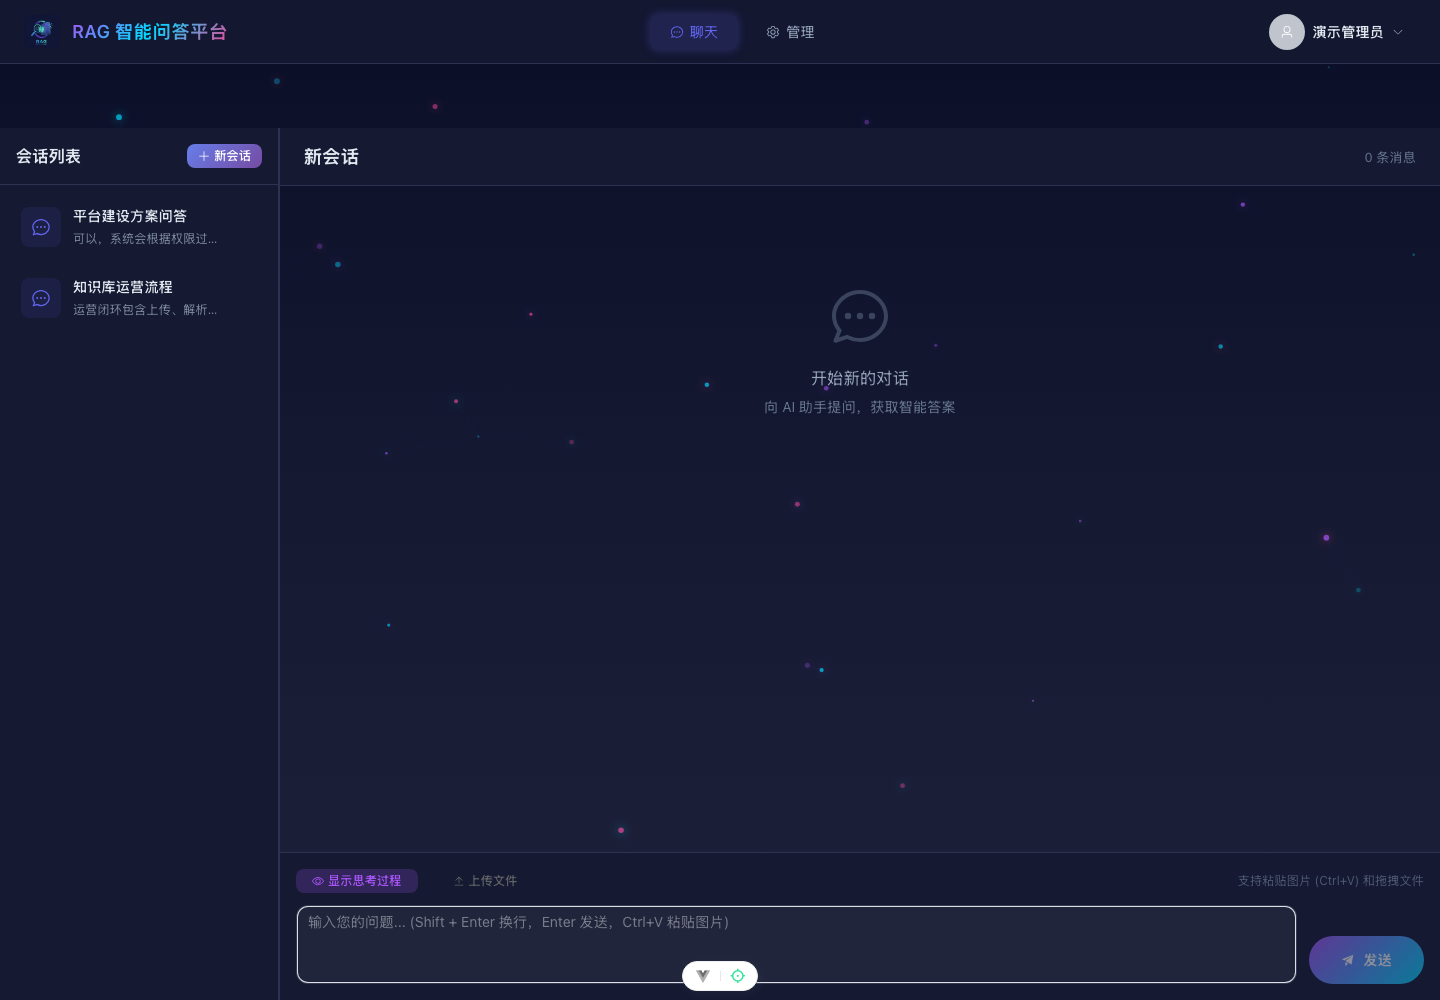
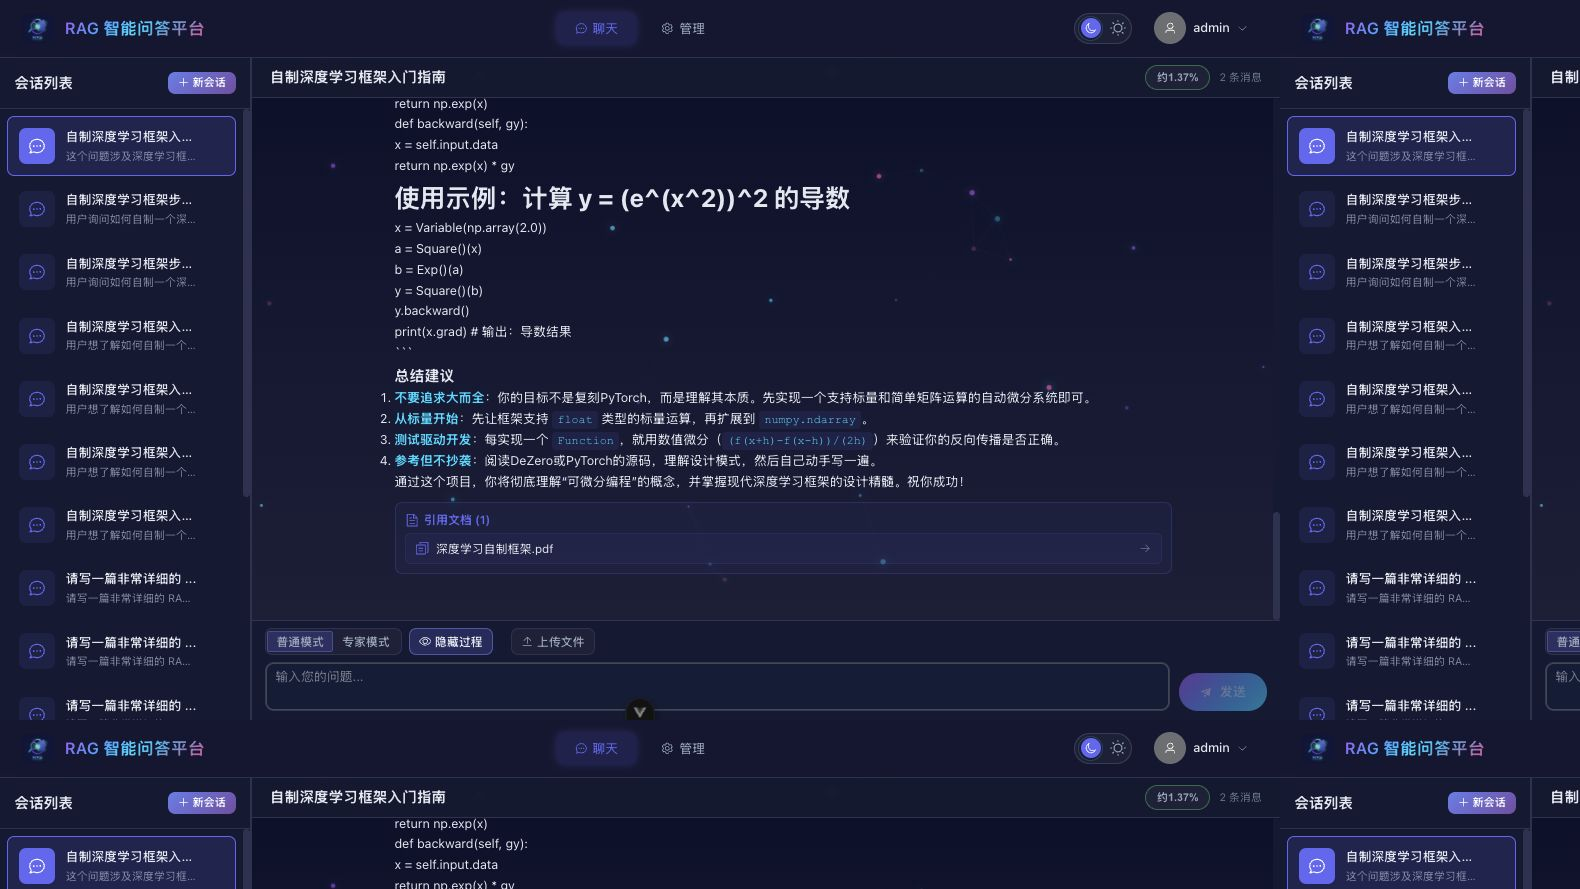
更新 README 截图并完善 LangGraph 过程展示

diff --git a/web/plantform_vue/src/utils/agentProcess.js b/web/plantform_vue/src/utils/agentProcess.js
@@ -12,10 +12,7 @@ const BLOCKED_PROCESS_WORDS = [
   ['sta', 'ck'],
   ['tra', 'ce'],
   ['top', 'ic='],
-  ['kaf', 'ka'],
-  ['接', '口'],
-  ['代', '码'],
-  ['修', '改']
+  ['kaf', 'ka']
 ].map((parts) => parts.join(''))
 const PROCESS_MARKER_ONLY_PATTERN = /^(thought|action|action input|observation|final answer|finalanswer|思考|操作|观测|输出|:|：)$/i
 
@@ -204,7 +201,7 @@ const isGeneratedSupervisorProcess = (process) => {
 
 export const getSupervisorProcesses = (message) => {
   return (message?.agentProcesses || [])
-    .filter((process) => process.scope === 'supervisor')
+    .filter((process) => ['supervisor', 'single'].includes(process.scope))
     .filter((process) => !isGeneratedSupervisorProcess(process))
     .sort((a, b) => a.stepIndex - b.stepIndex)
 }

diff --git a/web/plantform_vue/vite.config.js b/web/plantform_vue/vite.config.js
@@ -10,6 +10,10 @@ export default defineConfig({
     vue(),
     vueDevTools(),
   ],
+  server: {
+    host: '127.0.0.1',
+    port: 5173,
+  },
   resolve: {
     alias: {
       '@': fileURLToPath(new URL('./src', import.meta.url))

diff --git a/internal/agent/langgraph_agent.py b/internal/agent/langgraph_agent.py
@@ -73,6 +73,57 @@ class StreamingCallbackHandler(BaseCallbackHandler):
         self.collected_tokens = []
 
 
+class FinalAnswerStreamingCallbackHandler(BaseCallbackHandler):
+    """只把 Final Answer 后的内容流给前端，前面的过程内容只收集不进正文。"""
+
+    def __init__(self, callback: Optional[Callable] = None):
+        self.callback = callback
+        self.collected_tokens = []
+        self.answer_started = False
+        self.strip_leading_answer_space = False
+        self.pending = ""
+        self.marker_pattern = re.compile(r"(\*\*)?\s*Final Answer\s*:\s*(\*\*)?")
+
+    def on_llm_new_token(self, token: str, **kwargs) -> None:
+        self.collected_tokens.append(token)
+        if self.answer_started:
+            if self.strip_leading_answer_space:
+                token = token.lstrip()
+                if not token:
+                    return
+                self.strip_leading_answer_space = False
+            if self.callback:
+                self.callback("llm_chunk", token)
+            return
+
+        self.pending += token
+        match = self.marker_pattern.search(self.pending)
+        if match:
+            self.answer_started = True
+            self.strip_leading_answer_space = True
+            answer_part = self.pending[match.end():].lstrip()
+            self.pending = ""
+            if answer_part and self.callback:
+                self.strip_leading_answer_space = False
+                self.callback("llm_chunk", answer_part)
+
+    def get_collected_text(self) -> str:
+        return "".join(self.collected_tokens)
+
+    def get_answer_text(self) -> str:
+        text = self.get_collected_text()
+        match = self.marker_pattern.search(text)
+        if match:
+            return text[match.end():].strip()
+        return text.strip()
+
+    def clear(self):
+        self.collected_tokens = []
+        self.answer_started = False
+        self.strip_leading_answer_space = False
+        self.pending = ""
+
+
 class LangGraphAgent:
     """
     LangGraph Agent - 基于状态图的智能代理
@@ -129,6 +180,7 @@ Thought:{agent_scratchpad}"""
         
         # 流式回调处理器
         self.streaming_handler = StreamingCallbackHandler(callback)
+        self.final_answer_streaming_handler = FinalAnswerStreamingCallbackHandler(callback)
         
         # 转换工具
         self.tools = self._convert_tools(tools)
@@ -141,6 +193,21 @@ Thought:{agent_scratchpad}"""
         # 构建状态图
         self.graph = self._build_graph()
         self.app = self.graph.compile()
+
+    def _emit_single_agent_process(self, phase: str, content: Any, step_index: int) -> None:
+        if not self.callback:
+            return
+        text = str(content or "").strip()
+        if not text:
+            return
+        self.callback("agent_process", {
+            "scope": "single",
+            "agent_key": "langgraph",
+            "agent_name": "AI 助手",
+            "phase": phase,
+            "content": text,
+            "step_index": step_index,
+        })
     
     def _convert_tools(self, tools: Dict[str, Callable]) -> List[Tool]:
         """转换工具为 LangChain Tool 格式"""
@@ -396,6 +463,21 @@ Thought:{agent_scratchpad}"""
         """调用 LLM 并只返回完整文本，不向前端发送 token。"""
         response = await self.llm.ainvoke(prompt)
         return response.content if hasattr(response, 'content') else str(response)
+
+    async def _stream_final_answer_call(self, prompt: str) -> str:
+        """流式调用最终汇总，只把 Final Answer 后的正文发送给前端。"""
+        self.final_answer_streaming_handler.clear()
+        try:
+            response = await self.llm.ainvoke(
+                prompt,
+                config={"callbacks": [self.final_answer_streaming_handler]}
+            )
+            raw_text = response.content if hasattr(response, 'content') else str(response)
+            answer_text = self.final_answer_streaming_handler.get_answer_text()
+            return answer_text or raw_text
+        except Exception as e:
+            logger.error(f"最终答案流式 LLM 调用失败: {e}")
+            raise
     
     async def _think_node(self, state: AgentState) -> AgentState:
         """思考节点 - 调用 LLM 决定下一步行动（流式输出）"""
@@ -416,10 +498,10 @@ Thought:{agent_scratchpad}"""
                 agent_scratchpad=state["agent_scratchpad"]
             )
             
-            # 已有工具结果后，模型可能先输出草稿再输出 Final Answer。
-            # 这里先完整收集再清洗，避免草稿和控制标记进入正式回答。
+            # 已有工具结果后，模型可能先输出过程说明再输出 Final Answer。
+            # 这里只把 Final Answer 后的正文流到正式回答，前面的过程不进正文。
             if state.get("tool_results"):
-                llm_output = await self._plain_llm_call(prompt)
+                llm_output = await self._stream_final_answer_call(prompt)
             else:
                 llm_output = await self._stream_llm_call(prompt)
             
@@ -489,8 +571,10 @@ Thought:{agent_scratchpad}"""
             tool_input = pending_action["tool_input"]
             
             # 发送 action 事件
+            action_content = f"{tool_name}({tool_input})"
             if self.callback:
-                self.callback("action", f"{tool_name}({tool_input})")
+                self.callback("action", action_content)
+            self._emit_single_agent_process("action", action_content, state["current_step"] * 2 + 1)
             
             if tool_name not in self.tool_map:
                 return {
@@ -510,8 +594,10 @@ Thought:{agent_scratchpad}"""
                     result = await result
             
             # 发送 observation 事件
+            observation_content = str(result)[:500]
             if self.callback:
-                self.callback("observation", str(result)[:500])
+                self.callback("observation", observation_content)
+            self._emit_single_agent_process("observation", observation_content, state["current_step"] * 2 + 2)
             
             # 解析工具结果，提取文档信息
             documents = []
@@ -677,8 +763,8 @@ Thought:{agent_scratchpad}"""
 
 请直接给出最终答案，不需要再调用工具。"""
             
-            # 汇总阶段先拿完整输出，清洗后再发送给前端，避免草稿内容进入正式回答。
-            final_answer = await self._plain_llm_call(summary_prompt)
+            # 汇总阶段流式输出 Final Answer 后的正文，避免草稿内容进入正式回答。
+            final_answer = await self._stream_final_answer_call(summary_prompt)
             
             # 清理答案格式
             if "Final Answer:" in final_answer:

diff --git a/tests/test_langgraph_agent.py b/tests/test_langgraph_agent.py
@@ -9,24 +9,29 @@ from pkg.constants.constants import AGENT_TYPE, ENABLE_QA_CACHE
 
 
 class FakeLLMService:
-    def __init__(self, responses):
-        self.llm = FakeLLM(responses)
+    def __init__(self, responses, stream_by_char=False):
+        self.llm = FakeLLM(responses, stream_by_char=stream_by_char)
 
     def get_history(self):
         return []
 
 
 class FakeLLM:
-    def __init__(self, responses):
+    def __init__(self, responses, stream_by_char=False):
         self.responses = list(responses)
         self.prompts = []
+        self.stream_by_char = stream_by_char
 
     async def ainvoke(self, prompt, config=None):
         self.prompts.append(prompt)
         response = self.responses.pop(0) if self.responses else "Final Answer: 默认回答"
         for callback in (config or {}).get("callbacks", []):
             if hasattr(callback, "on_llm_new_token"):
-                callback.on_llm_new_token(response)
+                if self.stream_by_char:
+                    for char in response:
+                        callback.on_llm_new_token(char)
+                else:
+                    callback.on_llm_new_token(response)
         return AIMessage(content=response)
 
 
@@ -179,6 +184,66 @@ class LangGraphAgentSelfHealingTest(unittest.TestCase):
         self.assertEqual(["要自制一个深度学习框架，可以从自动微分、计算图、张量对象和优化器开始。"], final_answer_events)
         self.assertNotIn("Final Answer", final_answer_events[0])
         self.assertNotIn("我先整理", final_answer_events[0])
+
+    def test_final_answer_after_tools_streams_only_answer_chunks(self):
+        events = []
+
+        async def knowledge_search(tool_input=None, **kwargs):
+            return '{"context":"DeZero 通过 60 个步骤自制深度学习框架。","documents":[],"results":[]}'
+
+        agent = LangGraphAgent(
+            llm_service=FakeLLMService([
+                "Thought: 先查资料\nAction: knowledge_search\nAction Input: {}",
+                "我先整理检索结果。\nFinal Answer: 要自制一个深度学习框架，先实现自动微分，再实现优化器。",
+            ], stream_by_char=True),
+            tools={"knowledge_search": knowledge_search},
+            max_iterations=3,
+            callback=lambda event_type, content: events.append((event_type, content)),
+        )
+
+        answer = asyncio.run(agent.run("我如何自制一个深度学习框架呢"))
+        action_index = next(index for index, event in enumerate(events) if event[0] == "action")
+        answer_chunks = [
+            content
+            for event_type, content in events[action_index + 1:]
+            if event_type == "llm_chunk"
+        ]
+
+        self.assertEqual("要自制一个深度学习框架，先实现自动微分，再实现优化器。", answer)
+        self.assertGreater(len(answer_chunks), 1)
+        streamed_text = "".join(answer_chunks)
+        self.assertEqual(answer, streamed_text)
+        self.assertNotIn("我先整理", streamed_text)
+        self.assertNotIn("Final Answer", streamed_text)
+
+    def test_tool_action_and_observation_are_emitted_as_agent_processes(self):
+        events = []
+
+        async def knowledge_search(tool_input=None, **kwargs):
+            return '{"context":"DeZero 通过 60 个步骤自制深度学习框架。","documents":[],"results":[]}'
+
+        agent = LangGraphAgent(
+            llm_service=FakeLLMService([
+                "Thought: 先查资料\nAction: knowledge_search\nAction Input: {}",
+                "Final Answer: 要自制一个深度学习框架，可以从自动微分开始。",
+            ]),
+            tools={"knowledge_search": knowledge_search},
+            max_iterations=3,
+            callback=lambda event_type, content: events.append((event_type, content)),
+        )
+
+        asyncio.run(agent.run("我如何自制一个深度学习框架呢"))
+        process_events = [
+            content for event_type, content in events if event_type == "agent_process"
+        ]
+
+        self.assertEqual(
+            ["action", "observation"],
+            [event["phase"] for event in process_events],
+        )
+        self.assertEqual({"single"}, {event["scope"] for event in process_events})
+        self.assertIn("knowledge_search", process_events[0]["content"])
+        self.assertIn("DeZero", process_events[1]["content"])
 
 
 if __name__ == "__main__":

diff --git a/docs/交接文档.md b/docs/交接文档.md
@@ -2774,3 +2774,106 @@ cd web/plantform_vue && npm run build
 ```bash
 uvicorn main:app --host 0.0.0.0 --port 8081
 ```
+
+## 2026-06-26 恢复 LangGraph 工具返回结果展示和最终回答流式输出
+
+### 现象
+
+- 最终答案已经能生成，但最后找答案阶段一度变成整段一次性返回，不再逐步出现。
+- 过程区能看到操作和思考，但工具返回的内容没有显示出来。
+- “自制深度学习框架”这类问题的知识库结果包含“代码”等正常词时，前端可能把整条观察结果过滤掉。
+
+### 原因
+
+- 为了避免过程内容混入正文，之前把工具后的最终汇总改成先完整收集再发送，导致最后答案不再流式返回。
+- LangGraph 单 Agent 只发了旧的 `action`、`observation` 字段，没有同步发结构化 `agent_process`。
+- 前端只要进入结构化过程展示模式，就会隐藏旧的观察结果字段；因此工具返回虽然到了消息对象里，也不会显示。
+- 前端过程清洗规则过宽，把包含“代码”“接口”“修改”等正常业务词的工具结果直接清空。
+
+### 修改
+
+- LangGraph 最终汇总改为流式处理，只把 `Final Answer:` 后面的正文发送到正式回答区域。
+- `Final Answer:` 前面的搜索计划、整理过程、工具计划仍不会进入正式回答。
+- LangGraph 工具调用时同步发送结构化过程事件：
+  - `phase=action` 显示工具调用。
+  - `phase=observation` 显示工具返回。
+  - `scope=single` 表示当前默认 LangGraph 单 Agent 链路。
+- 前端主助手过程块支持显示 `scope=single` 的过程事件。
+- 收窄前端过程清洗规则，不再因为正常内容里出现“代码”“接口”“修改”就隐藏工具结果。
+
+### 验证
+
+已通过：
+
+```bash
+python -m unittest tests.test_langgraph_agent tests.test_stream_parser tests.test_react_agent_parser tests.test_rag_evaluation_records tests.test_dashboard_service
+python -m compileall internal/agent/langgraph_agent.py internal/service/ai/ai_reply_service.py internal/service/ai/stream_parser.py pkg/constants/constants.py
+node web/plantform_vue/tests/agent-process-groups.test.mjs
+cd web/plantform_vue && npm run build
+```
+
+### 后续注意
+
+- 默认主链路继续使用 LangGraph，不再回到 `react` 框架模式。
+- Python 后端改动后仍需要手动重启：
+
+```bash
+uvicorn main:app --host 0.0.0.0 --port 8081
+```
+
+- 如果一分钟内后端没有正常启动，直接让用户启动，不继续等待。
+- 重启后验收“我如何自制一个深度学习框架呢”：最终回答应流式出现，过程区应能看到工具调用和工具返回，正式回答里不应出现 `Thought`、`Action`、`Observation`、`Final Answer:` 或搜索计划。
+
+## 2026-06-28 README 与截图更新
+
+### 现象
+
+- README 仍使用旧后端端口 `8001`，与当前手动启动口径不一致。
+- README 页面展示缺少当前系统总览截图。
+- 智能问答截图不是当前 LangGraph 流式回答和工具过程展示后的版本。
+
+### 修改
+
+- README 后端启动命令统一为：
+
+```bash
+uvicorn main:app --host 0.0.0.0 --port 8081
+```
+
+- README 技术栈增加 LangGraph。
+- README 核心功能增加工具过程展示、系统总览、流式回答说明。
+- README 问答缓存说明改为默认关闭、需要时显式开启。
+- 更新聊天页截图：
+
+```text
+docs/screenshots/02-chat.png
+```
+
+- 新增后台系统总览截图：
+
+```text
+docs/screenshots/09-admin-dashboard.png
+```
+
+### 验证
+
+- 本地前端地址：
+
+```text
+http://127.0.0.1:5173
+```
+
+- 本地后端地址：
+
+```text
+http://127.0.0.1:8081
+```
+
+- 浏览器提问“我如何自制一个深度学习框架呢”后，最终回答正常出现，引用文档显示《深度学习自制框架.pdf》，正式回答没有 `Thought`、`Action`、`Observation`、`Final Answer:`。
+- 后台系统总览 `http://127.0.0.1:5173/admin/dashboard` 已加载数据并完成截图。
+
+### 后续注意
+
+- 后端 Python 改动后仍需要用户手动重启，不要直接替用户重启。
+- 前端 `npm run dev` 使用 `127.0.0.1:5173`，避免本机 `localhost` 解析异常。
+- 后续默认继续使用 LangGraph，不再把 ReAct 作为默认主链路。